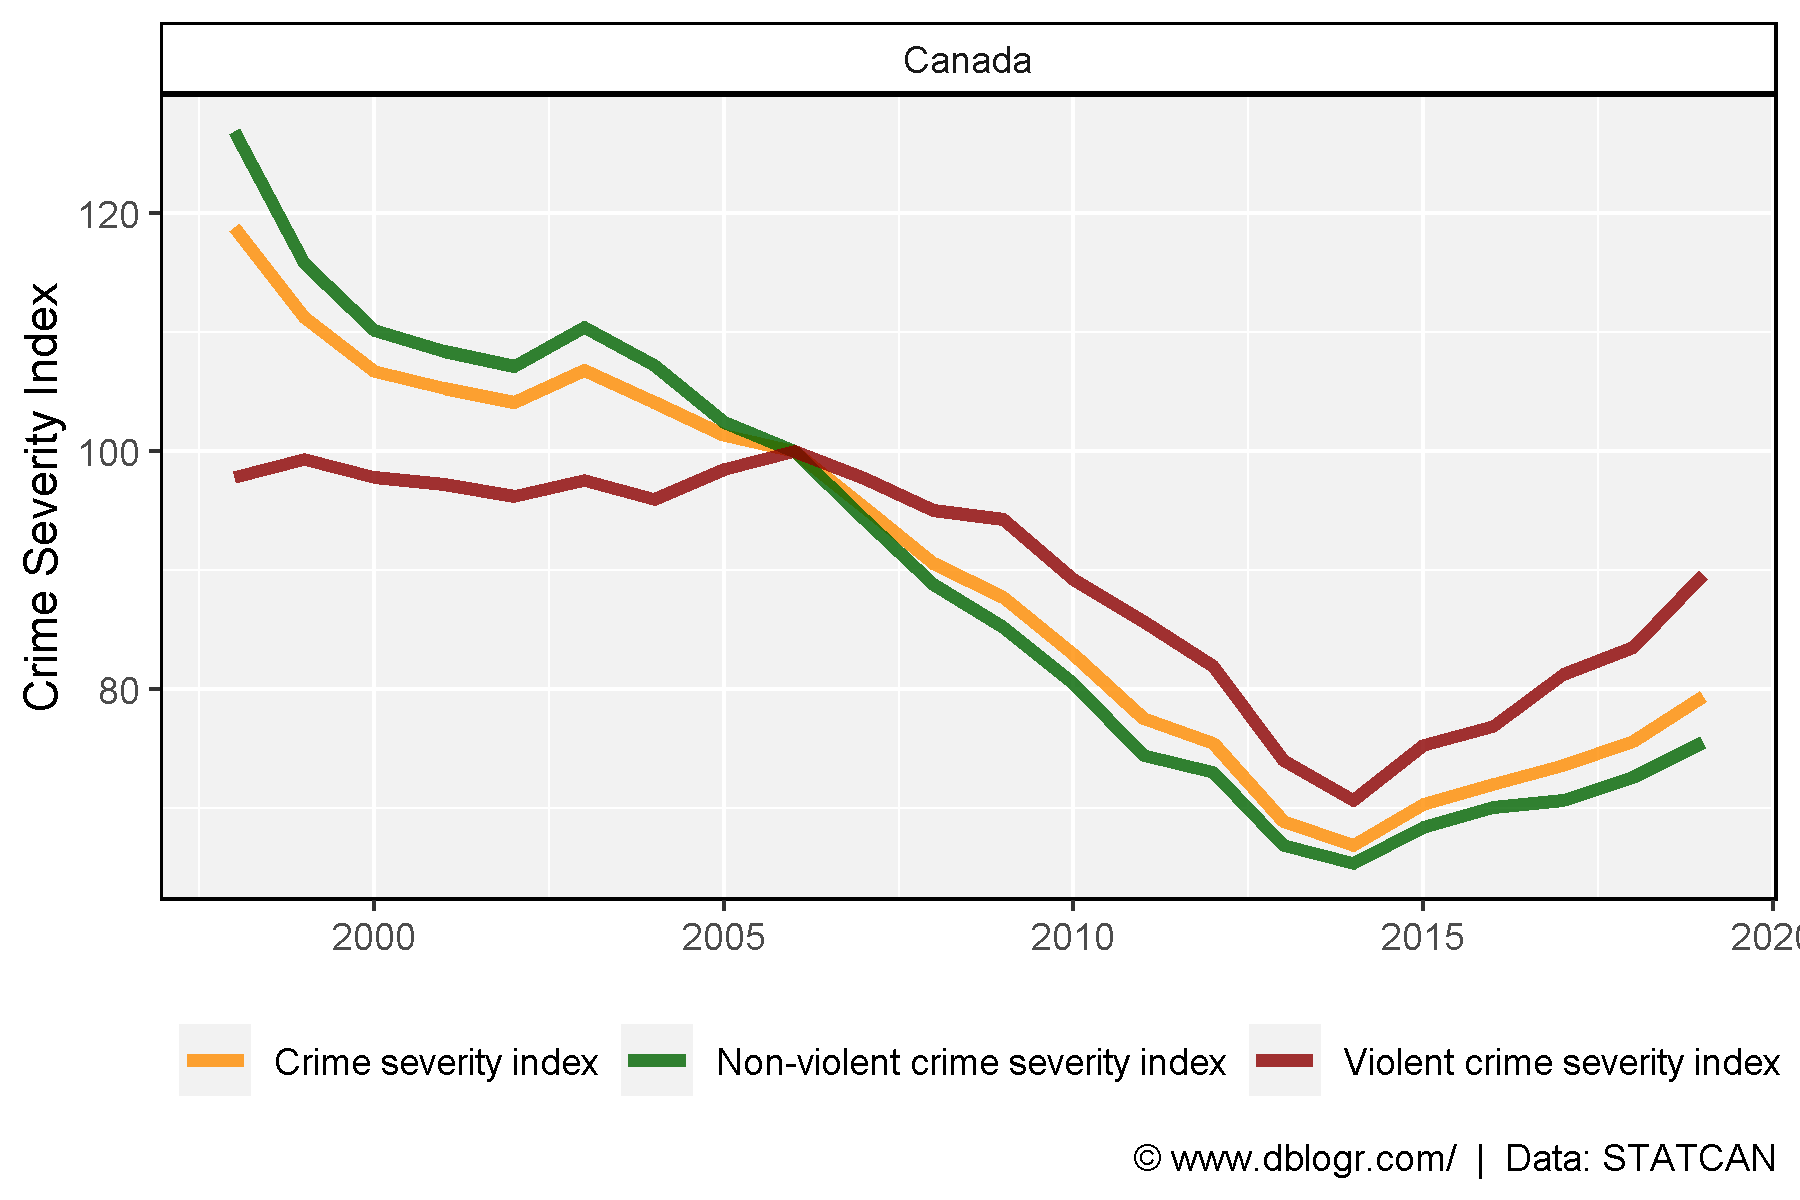
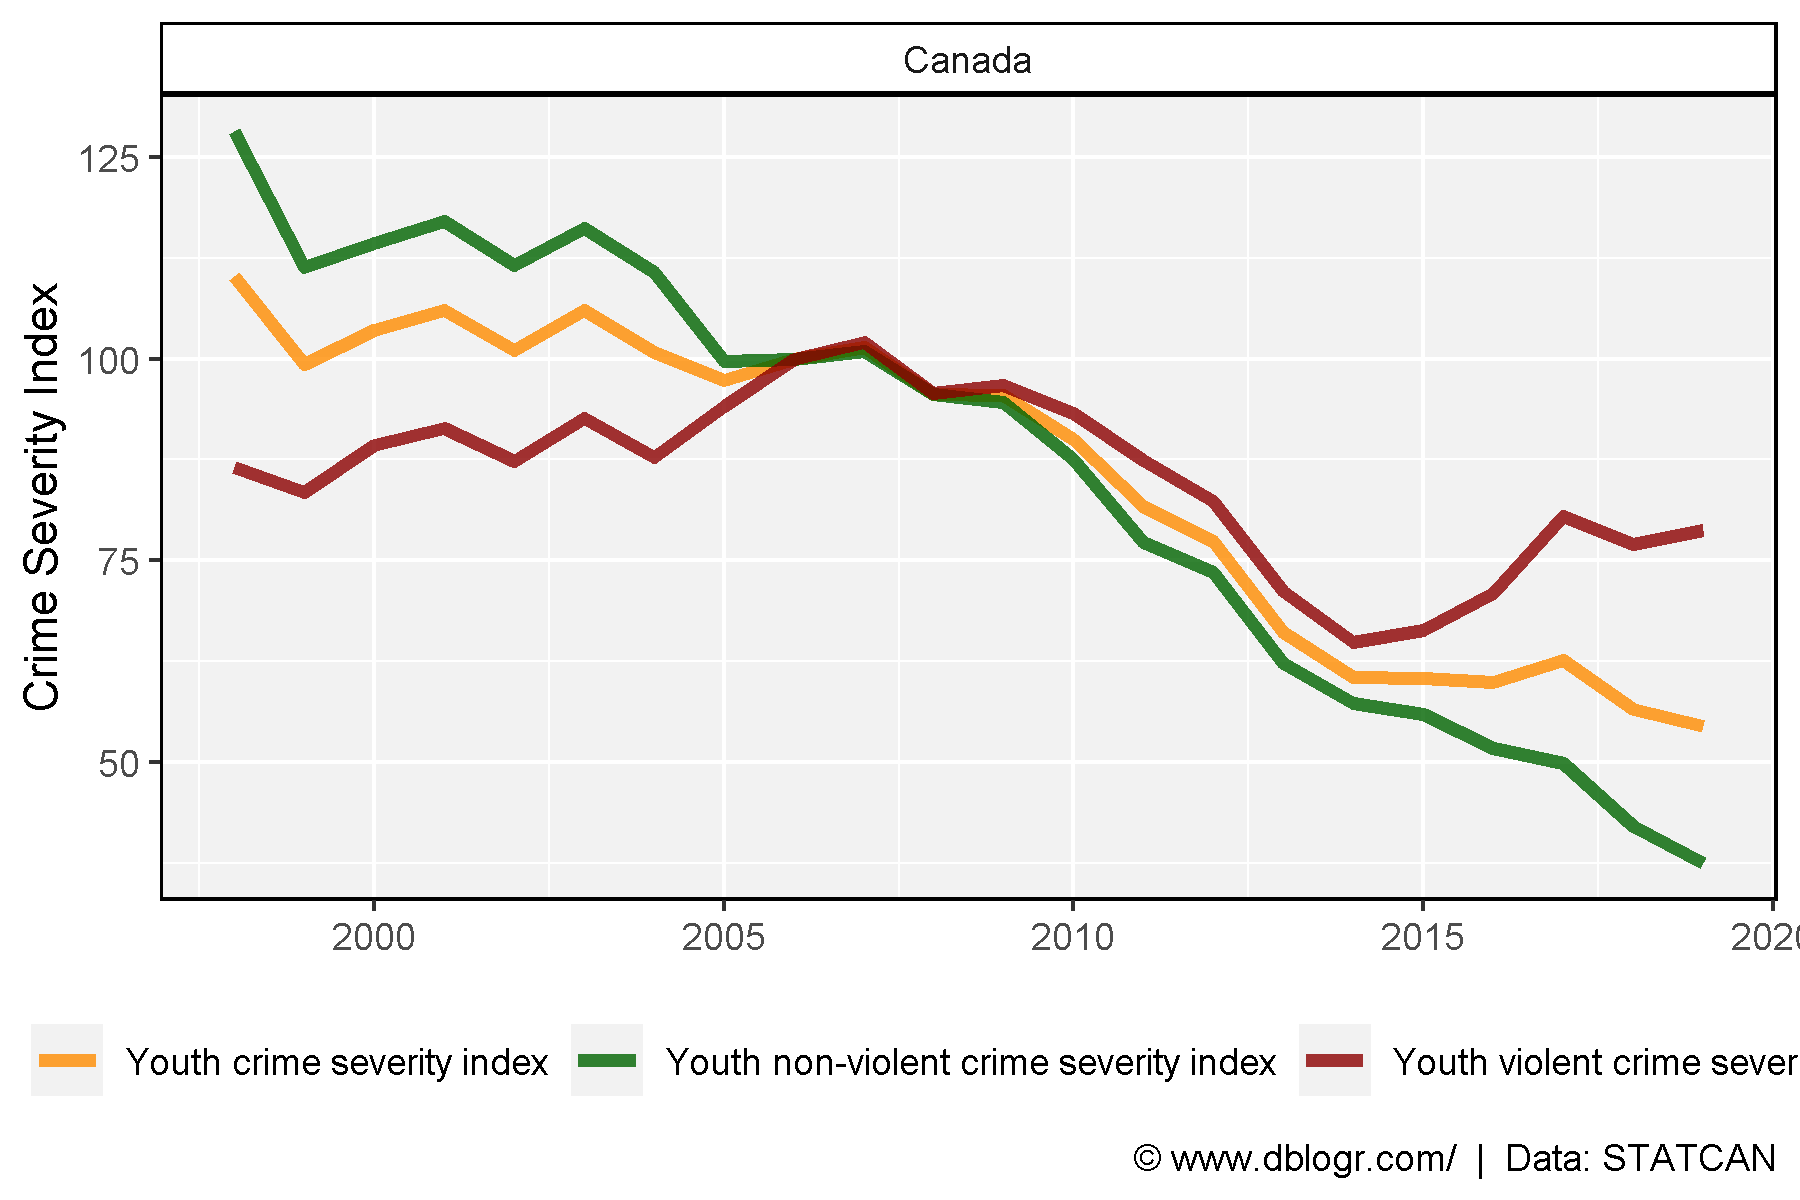
edit

diff --git a/content/dblogr/spanish_flu/index.html b/content/dblogr/spanish_flu/index.html
@@ -2,10 +2,10 @@
 title: "Spanish Flu"
 subtitle: "An exploration of excess deaths during the 1918 pandemic"
 summary:  "An exploration of excess deaths during the 1918 pandemic"
-date: "2021-06-16"
+date: "2021-06-17"
 author: "Derek Michael Wright <derek.wright@usask.ca> [www.dblogr.com/](https://dblogr.com/dblogr/spanish_slu/)"
-tags: [ "dblogr", "Demographics", "Featured" ]
-weight: 2
+tags: [ "dblogr", "Demographics" ]
+weight: 3
 codefolding_show: "hide"
 image:
   preview_only: true

diff --git a/content/dblogr/canada_crime/index.html b/content/dblogr/canada_crime/index.html
@@ -75,7 +75,7 @@ ggsave(&quot;canada_crime_01.png&quot;, mp, width = 6, height = 4)</code></pre>
 <h1>Youth Crime Severity Index</h1>
 <pre class="r"><code># Prep data
 colors &lt;- c(&quot;darkorange&quot;, &quot;darkgreen&quot;, &quot;darkred&quot;)
-xx &lt;- d1 %&gt;% filter(Area == &quot;Canada&quot;)
+xx &lt;- d2 %&gt;% filter(Area == &quot;Canada&quot;)
 # Plot
 mp &lt;- ggplot(xx, aes(x = Year, y = Value, color = Measurement)) + 
   geom_line(size = 1.5, alpha = 0.8) +
